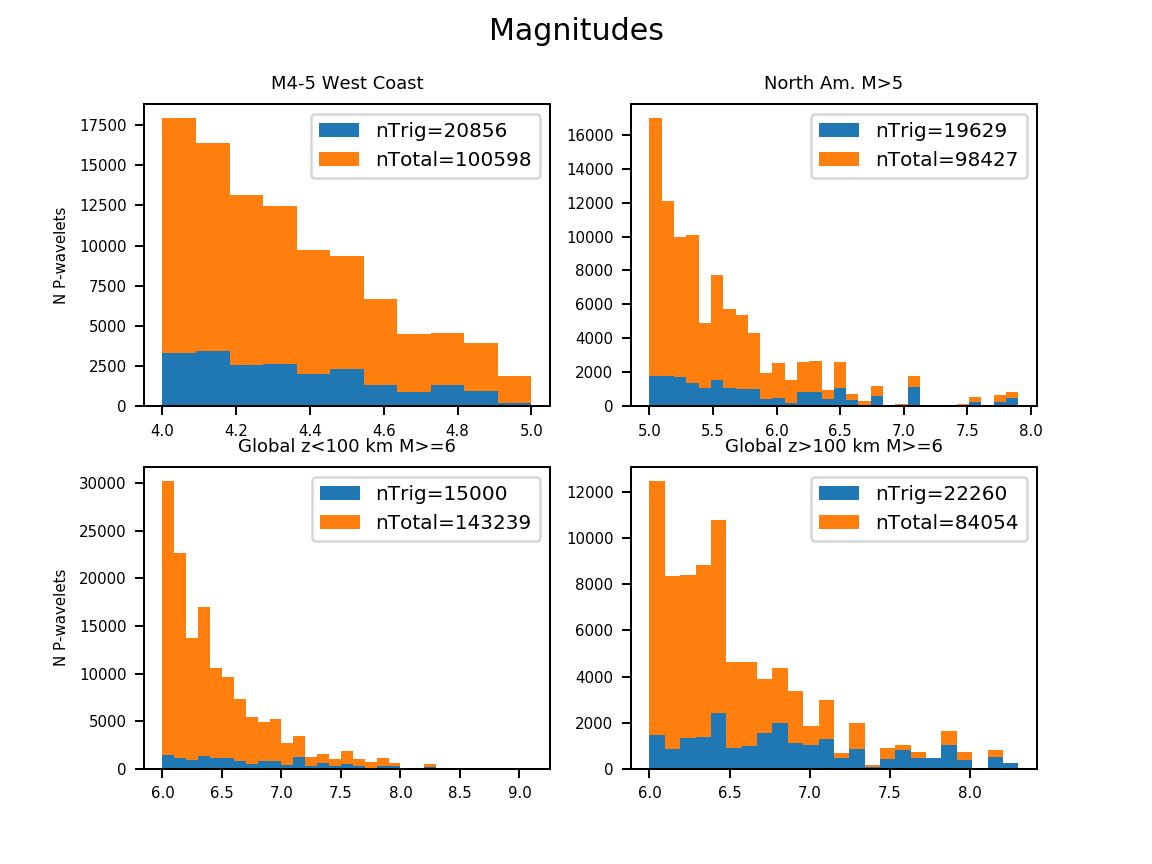
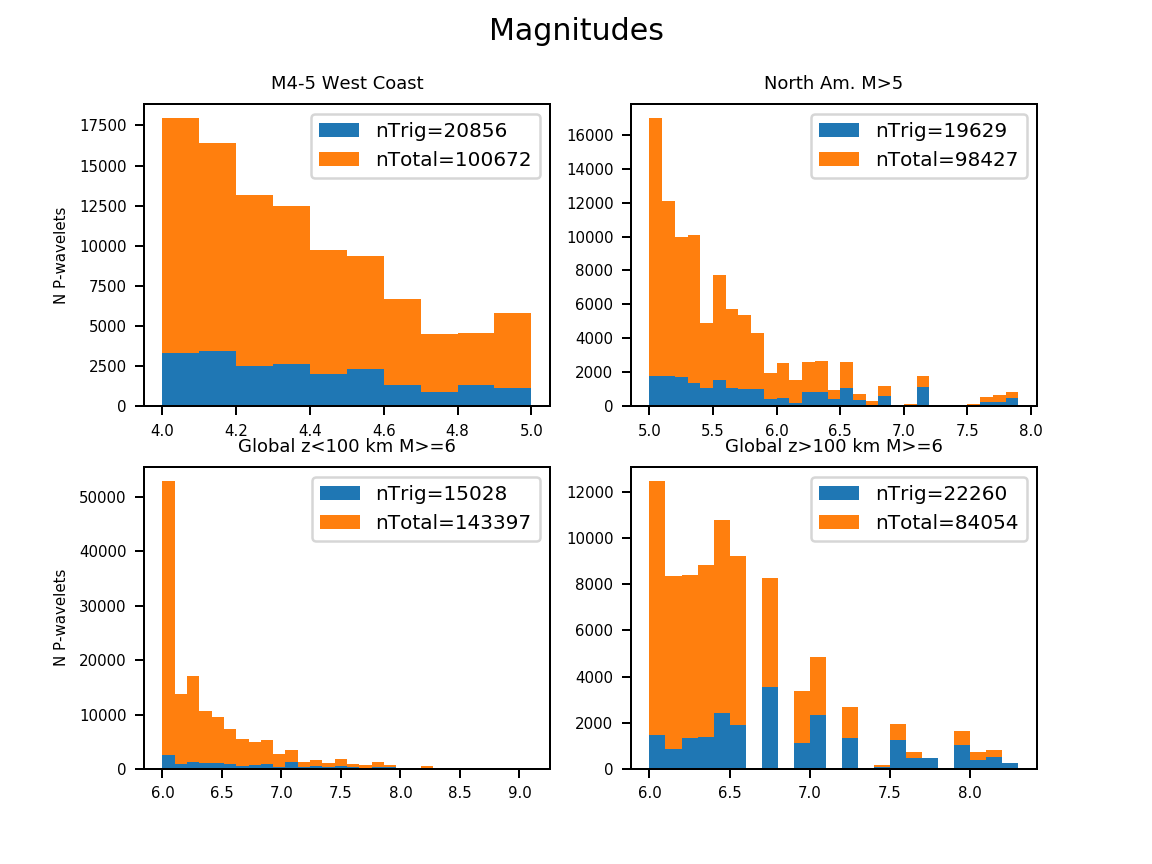
updating histograms

diff --git a/make_histograms.py b/make_histograms.py
@@ -211,7 +211,7 @@ for i in range(0,4):   #--- just to make binning the same
     xN[i].append(0)
 plt.rcParams['font.size'] = '6'
 fig, axs = plt.subplots(2, 2)
-axs[0,0].set_title('M4-5 West Coast (cut off at 20k)')
+axs[0,0].set_title('M4-5 West Coast (plot cut off at 20k)')
 axs[0,0].hist([xY[0],xN[0]],nbins,stacked=True,label=('nTrig='+str(len(xY[0])),'nTotal='+str(len(x[0]))))
 axs[0,0].legend(prop={'size': 8})
 axs[0,0].set_ylim([0,20000])
@@ -242,7 +242,7 @@ for i in range(0,4):    #--- just to make binning the same
     xY[i].append(max(x[i]))
     xN[i].append(min(x[i]))
     xN[i].append(max(x[i]))
-nbins = int(10*(max(x[0]) - min(x[0]))) +1
+nbins = int(10*(max(x[0]) - min(x[0])))
 plt.rcParams['font.size'] = '6'
 fig, axs = plt.subplots(2, 2)
 axs[0,0].set_title('M4-5 West Coast')
@@ -250,18 +250,18 @@ axs[0,0].hist([xY[0],xN[0]],nbins,stacked=True,label=('nTrig='+str(len(xY[0])),'
 axs[0,0].legend(prop={'size': 8})
 axs[0,0].set_ylabel('N P-wavelets')
 
-nbins = int(10*(max(x[1]) - min(x[1]))) +1
+nbins = int(10*(max(x[1]) - min(x[1])))
 axs[0,1].set_title('North Am. M>5')
 axs[0,1].hist([xY[1],xN[1]],nbins,stacked=True,label=('nTrig='+str(len(xY[1])),'nTotal='+str(len(x[1]))))
 axs[0,1].legend(prop={'size': 8})
 
-nbins = int(10*(max(x[2]) - min(x[2]))) +1
+nbins = int(10*(max(x[2]) - min(x[2])))
 axs[1,0].set_title('Global z<100 km M>=6')
 axs[1,0].hist([xY[2],xN[2]],nbins,stacked=True,label=('nTrig='+str(len(xY[2])),'nTotal='+str(len(x[2]))))
 axs[1,0].legend(prop={'size': 8})
 axs[1,0].set_ylabel('N P-wavelets')
 
-nbins = int(10*(max(x[3]) - min(x[3]))) +1
+nbins = int(10*(max(x[3]) - min(x[3])))
 axs[1,1].set_title('Global z>100 km M>=6')
 axs[1,1].hist([xY[3],xN[3]],nbins,stacked=True,label=('nTrig='+str(len(xY[3])),'nTotal='+str(len(x[3]))))
 axs[1,1].legend(prop={'size': 8})
